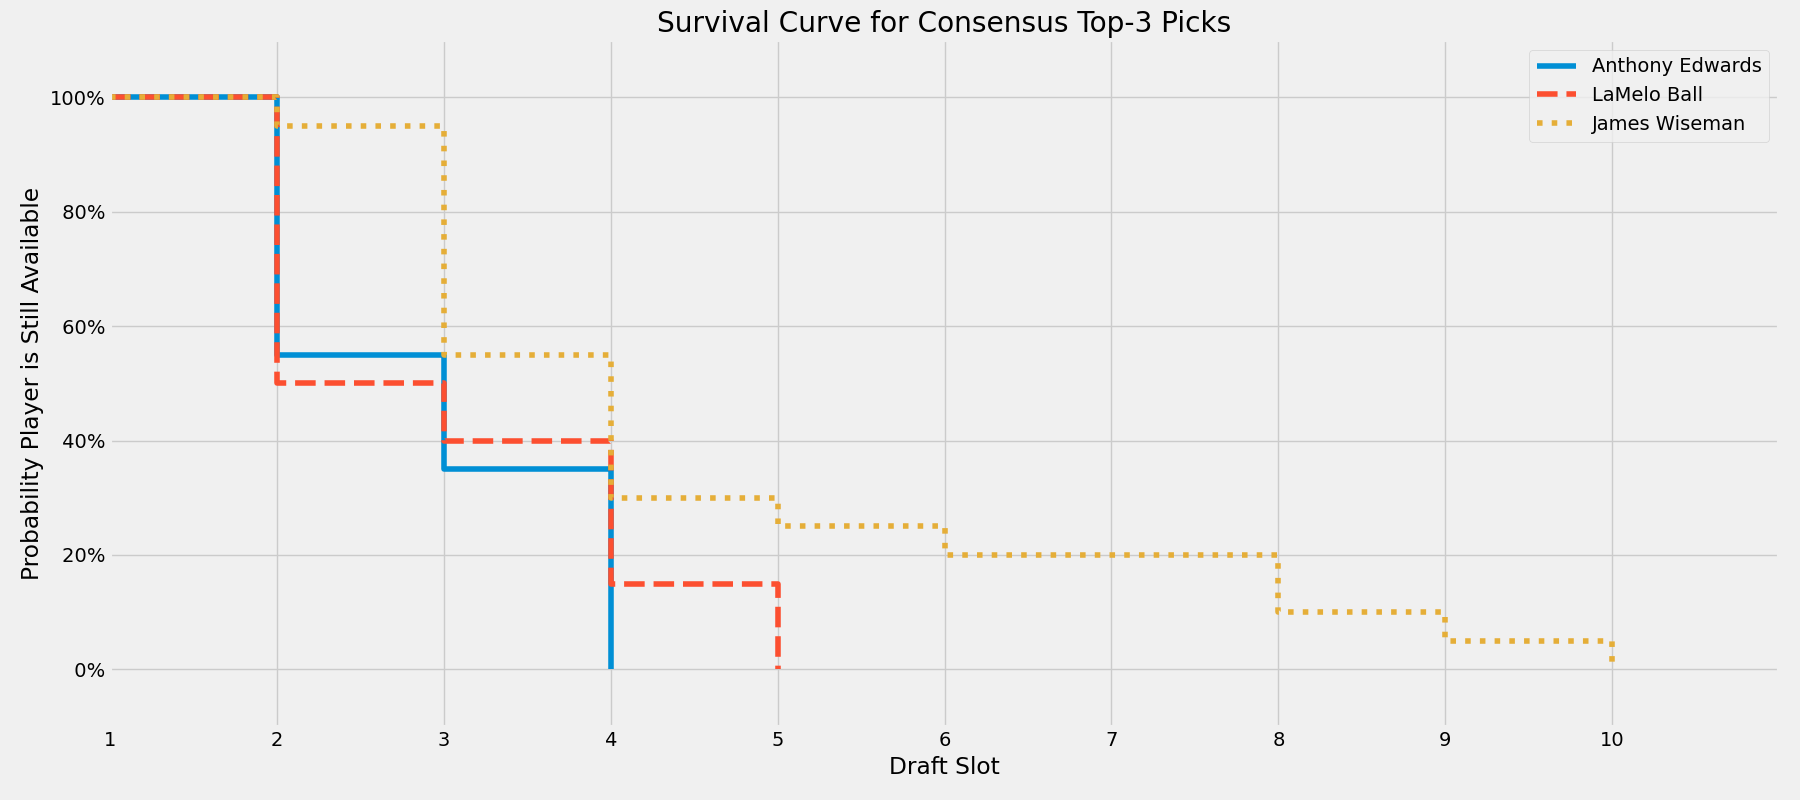
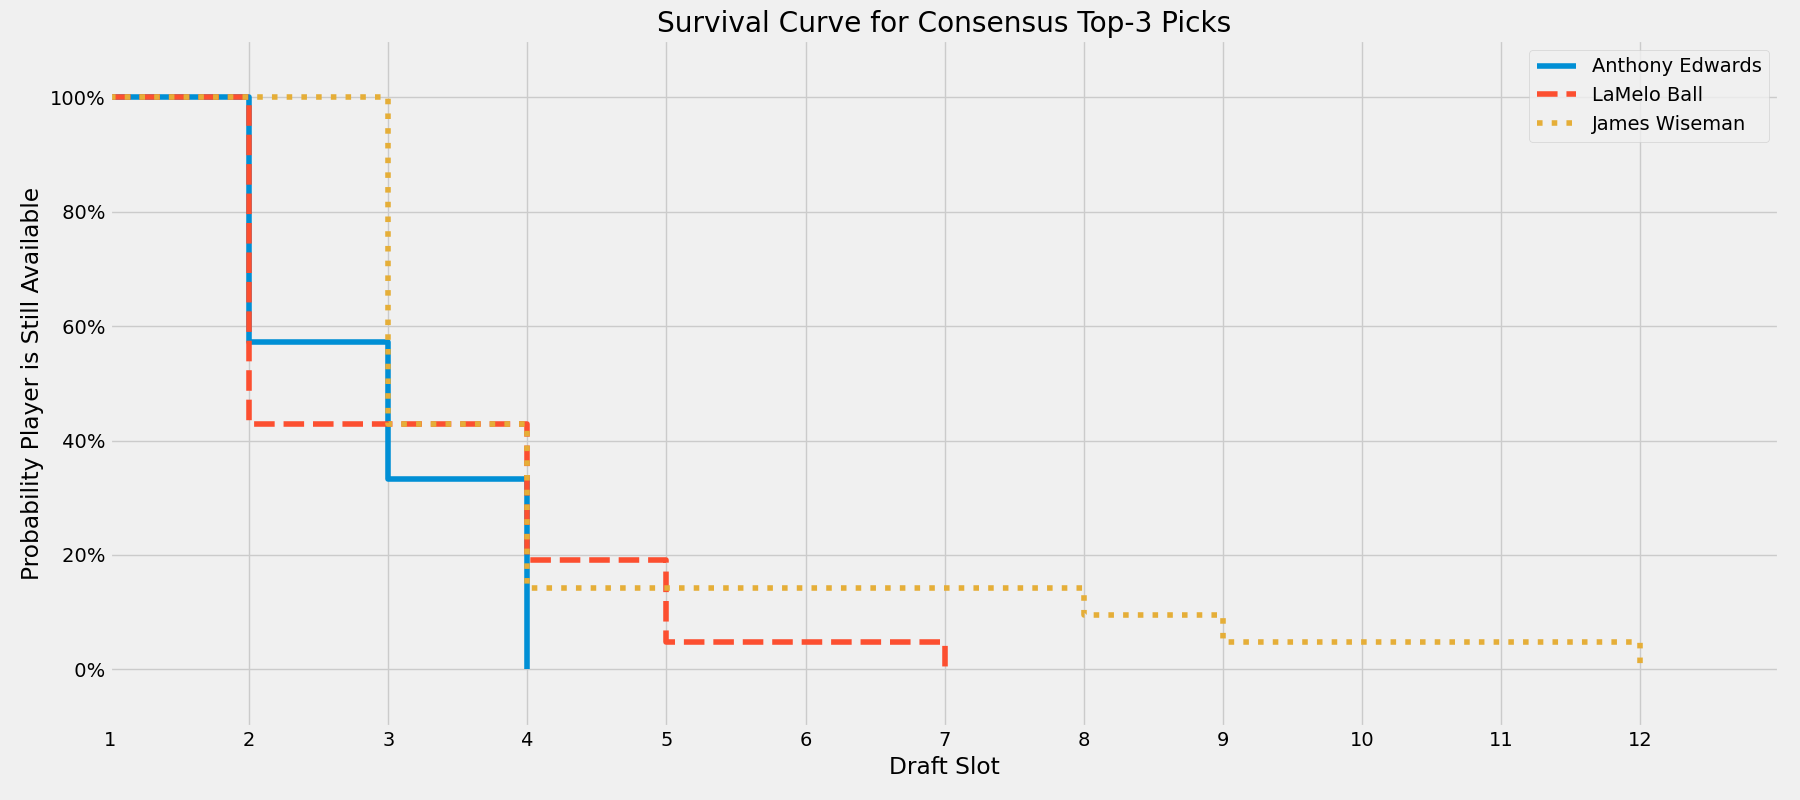
November 9 update

diff --git a/scripts/survival_analysis.py b/scripts/survival_analysis.py
@@ -237,6 +237,7 @@ if __name__=='__main__':
     # Read in individual mock drafts
     babcock_hoops_df = pd.read_csv('../data/babcock_hoops.csv')
     bryan_kalbrosky_df = pd.read_csv('../data/bryan_kalbrosky.csv')
+    chad_ford_df = pd.read_csv('../data/chad_ford.csv')
     chris_foresberg_df = pd.read_csv('../data/chris_foresberg.csv')
     chris_stone_df = pd.read_csv('../data/chris_stone.csv')
     danny_cunningham_df = pd.read_csv('../data/danny_cunningham.csv')
@@ -257,13 +258,13 @@ if __name__=='__main__':
     tankathon_df = pd.read_csv('../data/tankathon.csv')
 
     # Pre-process individual mock drafts to match names
-    mock_draft_list = [babcock_hoops_df, bryan_kalbrosky_df, chris_foresberg_df,
-                       chris_stone_df, danny_cunningham_df, gary_parrish_df,
-                       james_ham_df, jeff_goodman_df, jeremy_woo_df,
-                       jonathan_givony_df, jonathan_wasserman_df, kevin_oconnor_df,
-                       krysten_peek_df, kyle_boone_df, nbadraftnet_df,
-                       netscouts_df, ricky_odonnell_df, sam_veceine_df,
-                       scott_gleeson_df, tankathon_df]
+    mock_draft_list = [babcock_hoops_df, bryan_kalbrosky_df, chad_ford_df,
+                       chris_foresberg_df, chris_stone_df, danny_cunningham_df,
+                       gary_parrish_df, james_ham_df, jeff_goodman_df,
+                       jeremy_woo_df, jonathan_givony_df, jonathan_wasserman_df,
+                       kevin_oconnor_df, krysten_peek_df, kyle_boone_df,
+                       nbadraftnet_df, netscouts_df, ricky_odonnell_df,
+                       sam_veceine_df, scott_gleeson_df, tankathon_df]
 
     mock_draft_list = [pre_process_mocks(df) for df in mock_draft_list]
 

diff --git a/readme.md b/readme.md
@@ -1,11 +1,11 @@
 <center> <h1>NBA Draft Survival Analysis</h1> </center>
-<center> <h3>Updated November 2, 2020</h3> </center>
+<center> <h3>Updated November 9, 2020</h3> </center>
 
 ---
 #### Motivation
-In preparation for the 2020 NBA Draft, I wanted to analyze when each prospect was likely to be selected. Compiling 20 mock drafts from various draft analysts, I created a survival analysis which calculated the probability of each prospect being available at each draft slot.
+In preparation for the 2020 NBA Draft, I wanted to analyze when each prospect was likely to be selected. Compiling over 20 mock drafts from various draft analysts, I created a survival analysis which calculated the probability of each prospect being available at each draft slot.
 
-As an example, the following plot illustrates the probability that Anthony Edwards is available at each draft slot. Moving from left to right on the x-axis, we observe that based on the compiled mock drafts there is ~55% probability Edwards is available at pick number 2 and ~35% probability he is available at pick number 3.
+As an example, the following plot illustrates the probability that Anthony Edwards is available at each draft slot. Moving from left to right on the x-axis, we observe that based on the compiled mock drafts there is ~60% probability Edwards is available at pick number 2 and ~35% probability he is available at pick number 3.
 
 <div style="text-align:center"><img src='plots/players/anthony_edwards.png' width=70%></div>
 
@@ -18,52 +18,53 @@ The analysis calculates probabilities for picks 1-60. Not all players were inclu
 
 #### Mock Drafts
 
-Each player's survival curve is based on information compiled from 20 mock drafts listed below. I've not included the underlying data in this repo as some mocks are behind a paywall, but have stated when each was last updated. I'll check for updates and re-run the analysis on a weekly basis in the run-up to the draft. If you see any updates I've missed or mocks I should add let me know! Thanks to all of these individuals who publish their mock drafts, especially to those who do it in tabular form.
+Each player's survival curve is based on information compiled from over 20 mock drafts listed below. I've not included the underlying data in this repo as some mocks are behind a paywall, but have stated when each was last updated. I'll check for updates and re-run the analysis on a weekly basis in the run-up to the draft. If you see any updates I've missed or mocks I should add let me know! Thanks to all of these individuals who publish their mock drafts, especially to those who do it in tabular form.
 
 | Name  | Affiliation  | Updated  | Mock Draft  |
 |---|---|---|---|
 | Babcock Hoops  | Babcock Hoops  | November 2  | [Link](https://www.babcockhoops.com/mockdraft)  |
 | Bryan Kalbrosky  | Rookie Wire  | October 22  | [Link](https://therookiewire.usatoday.com/lists/2020-nba-mock-draft-all-60-picks-post-combine/)  |
+| Chad Ford | NBA Big Board | November 5 | [Link](https://nbabigboard.com/mock-draft-1/) |
 | Chad Forsberg  | NBC Sports  | October 29  | [Link](https://www.nbcsports.com/boston/celtics/2020-nba-mock-draft-90-best-players-available-fit-team-needs)  |
 | Chris Stone  | Sporting News  | March 24  | [Link](https://www.sportingnews.com/us/nba/news/nba-mock-draft-2020-warriors-pick-timberwolves-lamelo-ball/178cr8zivu85e1qdtavgxp9cc2)  |
-| Danny Cunningham  | Complex  | October 12  | [Link](https://www.complex.com/sports/nba-mock-draft-predictions-post-nba-finals/?utm_campaign=sportstw&utm_source=twitter.com&utm_medium=social)  |
+| Danny Cunningham  | Complex  | November 2  | [Link](https://www.complex.com/sports/nba-mock-draft-pre-nba-draft/)  |
 | Gary Parrish  | CBS Sports  | October 9  | [Link](https://www.cbssports.com/nba/draft/mock-draft/)  |
 | James Ham  | NBC Sports | October 26  | [Link](https://www.nbcsports.com/bayarea/warriors/2020-nba-mock-draft-190-first-round-pick-projections-after-finals)  |
 | Jeff Goodman  | Stadium  | August 21  | [Link](https://watchstadium.com/jeff-goodmans-2020-nba-mock-draft-3-0-lottery-order-revealed-08-20-2020/)  |
 | Jeremy Woo  | Sports Illustrated  | October 14  | [Link](https://www.si.com/nba/2020/10/14/nba-mock-draft-projections-post-finals)  |
 | Jonathan Givony  | ESPN  | August 20  | [Link](https://www.espn.com/nba/insider/story/_/id/29695731/nba-mock-draft-projected-picks-big-lottery-winners)  |
-| Jonathan Wasserman  | Bleacher Report  | October 21  | [Link](https://bleacherreport.com/articles/2914096-2020-nba-mock-draft-3-trades-that-would-turn-the-lottery-upside-down)  |
-| Kevin O'Connor  | The Ringer  | October 27  | [Link](https://nbadraft.theringer.com/)  |
-| Krysten Peek  | Yahoo Sports  | October 15  | [Link](https://sports.yahoo.com/2020-nba-mock-draft-50-la-melo-moves-to-no-1-132728170.html)  |
+| Jonathan Wasserman  | Bleacher Report  | November 4  | [Link](https://bleacherreport.com/articles/2915634-2020-nba-mock-draft-2-weeks-to-go-who-goes-no-1)  |
+| Kevin O'Connor  | The Ringer  | November 3 | [Link](https://nbadraft.theringer.com/)  |
+| Krysten Peek  | Yahoo Sports  | November 5  | [Link](https://sports.yahoo.com/2020-nba-mock-draft-60-la-melo-ball-remains-no-1-163601345.html)  |
 | Kyle Boone  | CBS Sports  | October 21  | [Link](https://www.cbssports.com/nba/draft/mock-draft/)  |
-| NBAdraftnet | NBAdraftnet | October 19 | [Link](https://www.nbadraft.net/nba-mock-drafts/) |
+| NBAdraftnet | NBAdraftnet | November 3 | [Link](https://www.nbadraft.net/nba-mock-drafts/) |
 | NetScouts  | NetScouts  | October 20  | [Link](https://netscoutsbasketball.com/scouting/2020-nba-mock-draft/)  |
-| Ricky O'Donnell  | SB Nation  | August 20  | [Link](https://www.sbnation.com/nba/2020/8/20/21374098/nba-mock-draft-2020-lottery-order-timberwolves-warriors-bulls)  |
+| Ricky O'Donnell  | SB Nation  | November 5  | [Link](https://www.sbnation.com/nba/2020/11/5/21546769/nba-mock-draft-2020-lamelo-ball-anthony-edwards-warriors-bulls-rumors)  |
 | Sam Veceine  | The Athletic  | October 13  | [Link](https://theathletic.com/2128239/2020/10/13/lamelo-ball-over-james-wiseman-at-no-1-in-2020-nba-mock-draft-version-8-0/)  |
-| Scott Gleeson  | USA Today  | October 29  | [Link](https://www.usatoday.com/story/sports/college/iowa-state/cyclone-insider/2020/10/29/nba-mock-draft-lamelo-ball-anthony-edwards-first-pick-tyrese-haliburton/6068784002/)  |
+| Scott Gleeson  | USA Today  | November 5  | [Link](https://www.usatoday.com/story/sports/nba/2020/11/05/nba-mock-draft-lamelo-ball-dips-riskier-pick-anthony-edwards/6120393002/)  |
 | Tankathon  | Tankathon  | October 24  | [Link](http://www.tankathon.com/mock_draft)  |
 
 #### Consensus Top-3 Picks
 
-Based on the average draft slot across all mock drafts Anthony Edwards (1.9), LaMelo Ball (2.1), and James Wiseman (3.6) are the consensus top three picks. Their respective survival curves are plotted below. At this point in time Edwards and Ball are the heavy favorites to go in the first two picks. Wiseman is ranked substantially lower in a few mocks resulting in a low probability of him falling to the ninth pick.
+Based on the average draft slot across all mock drafts Anthony Edwards (1.9), LaMelo Ball (2.1), and James Wiseman (3.2) are the consensus top three picks. Their respective survival curves are plotted below. At this point in time Edwards and Ball are the heavy favorites to go in the first two picks. Wiseman is ranked substantially lower in a few mocks resulting in a low probability of him falling to the 11th pick.
 
 <div style="text-align:center"><img src='plots/top_3.png' width=90%></div>
 
 #### Consensus Top-10 Picks
 
-In similar fashion, here are the survival curves of the consensus top-10 picks. 
+In similar fashion, here are the survival curves of the consensus top-10 picks.
 
 <div style="text-align:center"><img src='plots/top_10.png' width=90%></div>
 
 #### Case Studies
 
-At this point the mock drafts have Anthony Edwards as the most likely first overall pick just ahead of LaMelo Ball. There's ~55% probability he is available at the number two pick and ~35% chance he is available at the third pick. Based on the mocks there is no chance he falls to the 4th pick.
+At this point the mock drafts have Anthony Edwards as the most likely first overall pick just ahead of LaMelo Ball. There's ~60% probability he is available at the number two pick and ~35% chance he is available at the third pick. Based on the mocks there is no chance he falls to the 4th pick.
 
 <div style="text-align:center"><img src='plots/players/anthony_edwards.png' width=90%></div>
 
 <br>
 
-Xavier Tillman provides a good example of a player likely to go in the middle of the draft. Based on the mock drafts, he is unlikely to be selected prior to the 26th pick. After then his probability of being available decreases at a steady rate.
+Xavier Tillman provides a good example of a player likely to go in the middle of the draft. Based on the mock drafts, he is unlikely to be selected prior to the 28th pick. After then his probability of being available decreases at a steady rate.
 
 <div style="text-align:center"><img src='plots/players/xavier_tillman.png' width=90%></div>
 
